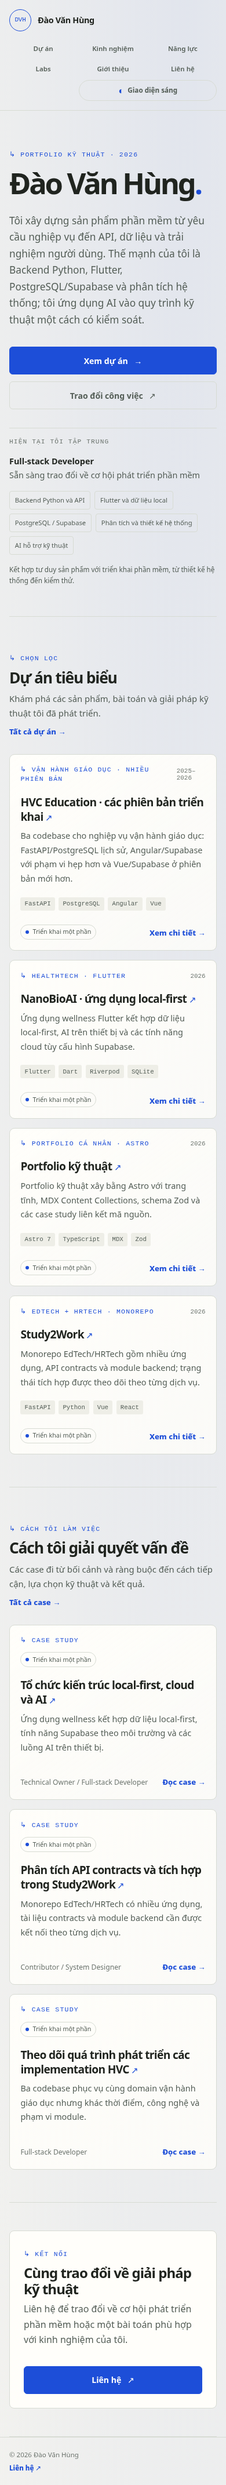
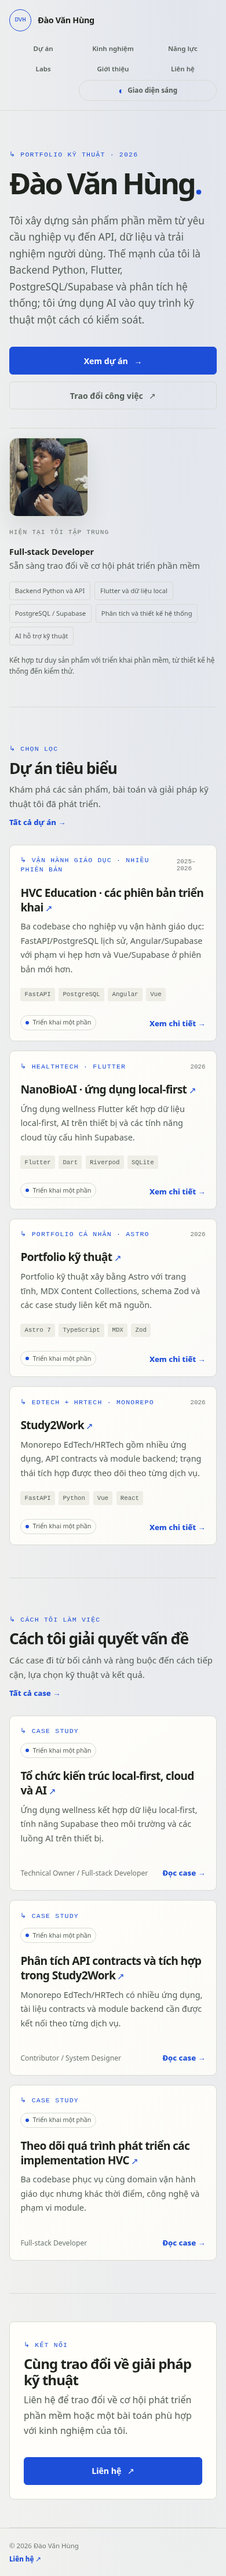
feat: add profile photo to portfolio

diff --git a/src/styles/global.css b/src/styles/global.css
@@ -148,6 +148,32 @@ main {
 main { min-height: 72vh; }
 .page-shell { padding-block: clamp(3.5rem, 8vw, 7rem); }
 .page-intro { max-width: 760px; margin-bottom: 3rem; }
+.page-intro--profile {
+  display: grid;
+  grid-template-columns: minmax(0, 1fr) minmax(180px, 250px);
+  align-items: center;
+  gap: clamp(2rem, 6vw, 5rem);
+  max-width: none;
+}
+.page-intro__content { max-width: 760px; }
+.profile-portrait-frame {
+  aspect-ratio: 1;
+  overflow: hidden;
+  border: 1px solid var(--line);
+  border-radius: 14px;
+  box-shadow: var(--shadow);
+}
+.profile-portrait {
+  display: block;
+  width: 100%;
+  height: 100%;
+  aspect-ratio: 1;
+  object-fit: cover;
+  transform: scale(1.35);
+  transform-origin: 50% 14%;
+}
+.hero__portrait { width: 136px; height: 136px; margin-bottom: 1.25rem; }
+.profile-portrait--about { width: 100%; max-width: 250px; aspect-ratio: 1; }
 .eyebrow,
 .eyebrow-link {
   display: inline-block;
@@ -396,6 +422,8 @@ main { min-height: 72vh; }
   .primary-nav__link { padding: .42rem .5rem; }
   .hero { grid-template-columns: minmax(0, 1fr); gap: 2rem; }
   .hero__aside { max-width: 520px; padding: 1rem 0 0; border-left: 0; border-top: 1px solid var(--line); }
+  .page-intro--profile { grid-template-columns: minmax(0, 1fr) 190px; gap: 1.5rem; }
+  .profile-portrait--about { max-width: 190px; }
   .case-layout { grid-template-columns: minmax(0,1fr); }
   .case-toc { position: static; order: 0; }
   .detail-body { grid-template-columns: minmax(0,1fr); }
@@ -410,6 +438,8 @@ main { min-height: 72vh; }
   .primary-nav__link { text-align: center; font-size: .72rem; }
   .theme-toggle { justify-content: center; grid-column: 2 / 4; }
   .page-shell { padding-block: 3rem; }
+  .page-intro--profile { grid-template-columns: minmax(0, 1fr); }
+  .profile-portrait--about { width: min(100%, 220px); max-width: 220px; }
   .hero { padding-block: 3.75rem 3.25rem; }
   .hero-title { font-size: clamp(2.65rem, 13vw, 4rem); }
   .hero__actions { align-items: stretch; flex-direction: column; }

diff --git a/e2e/portfolio.spec.ts b/e2e/portfolio.spec.ts
@@ -47,6 +47,21 @@ test('navigation, theme switch, and keyboard focus work', async ({ page }) => {
   await expect(page.getByRole('heading', { name: 'Dự án', level: 1 })).toBeVisible();
 });
 
+test('profile portraits load with base-aware URLs on home and about pages', async ({ page }) => {
+  for (const path of ['', 'about/']) {
+    await page.goto(APP + path);
+    const portraits = page.locator('img[alt="Chân dung Đào Văn Hùng"]');
+    await expect(portraits).toHaveCount(1);
+    await expect(portraits).toBeVisible();
+    await expect(portraits).toHaveAttribute('src', APP + 'AVT.jpg');
+    const imageLoaded = await portraits.evaluate((image) => {
+      const portrait = image as HTMLImageElement;
+      return portrait.complete && portrait.naturalWidth > 0;
+    });
+    expect(imageLoaded, path || 'home').toBe(true);
+  }
+});
+
 test('project filters enhance the static list and retain an all-items state', async ({ page, browser }) => {
   await page.goto(APP + 'projects/');
   const cards = page.locator('[data-project-card]');
